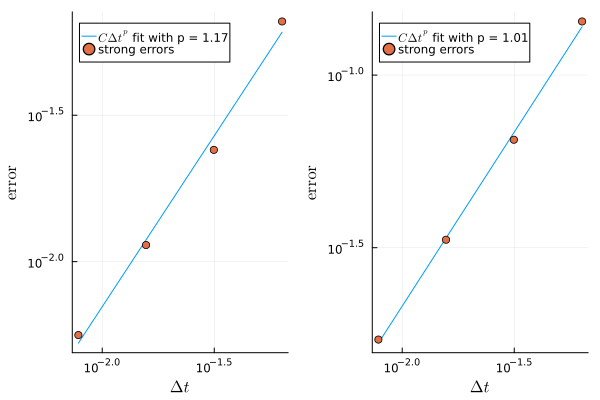
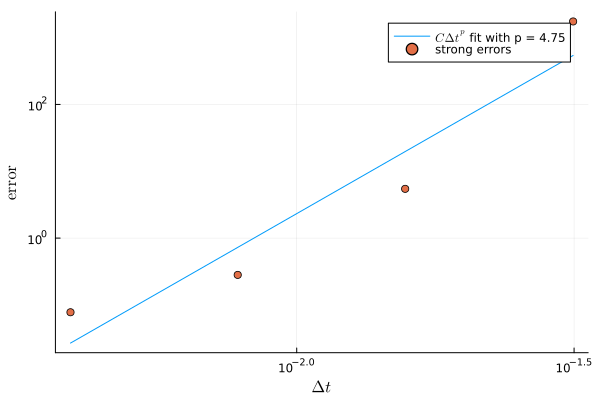
adjusting parameters

diff --git a/docs/src/examples/08-earthquake.md b/docs/src/examples/08-earthquake.md
@@ -4,6 +4,10 @@ EditURL = "https://github.com/rmsrosa/rode_conv_em/docs/literate/examples/08-ear
 
 # Seismic excitations of mechanical structures with the Kanai-Takimi model
 
+```@meta
+Draft = false
+```
+
 Now we consider a mechanical structure problem under ground-shaking excitations, based on the Kanai-Tajimi model.
 
 We consider a single-storey building, with its ground at position $M_t$ and its ceiling at position $M_t + X_t$. The random process $X_t$ refers to the motion relative to the ground. The ground motion $M_t$ affects the motion as an excitation force proportional to the ground acceleration $\ddot M_t$. The damping and elastic forces are in effect within the structure. In this framework, the equation of motion for the relative displacement $X_t$ of the ceiling of the single storey building takes the form
@@ -50,7 +54,6 @@ First we load the necessary packages
 using Plots
 using Random
 using LinearAlgebra
-using FFTW
 using Distributions
 using RODEConvergence
 ````
@@ -70,7 +73,7 @@ function f!(dx, t, x, y)
     ζ = 0.064
     ω = 15.56
     dx[1] = x[2]
-    dx[2] = - 2 * ζ * ω * x[2] - ω ^ 2 * x[1] + y[1] * y[2]
+    dx[2] = - 2 * ζ * ω * x[2] - ω ^ 2 * x[1] + y
     return dx
 end
 ````
@@ -148,8 +151,8 @@ end
 ````
 
 ````@example 08-earthquake
-ylaw = product_distribution(InverseGamma(4.0, tf), Uniform(2.0, 8.0), Uniform(2.0, 6.0), Uniform(4π, 16π))
-nr = 4
+ylaw = product_distribution(Exponential(tf/8), Uniform(0.1, 0.6), Uniform(4.0, 8.0), Uniform(4π, 16π))
+nr = 8
 g(t, r) = mapreduce(ri -> ddgm(t, ri[1], ri[2], ri[3], ri[4]), +,  eachcol(r))
 noise = TransportProcess(t0, tf, ylaw, g, nr)
 ````
@@ -191,9 +194,9 @@ plot!(60et)
 Now we are ready to check the order of convergence. We set the target resolution, the convergence test resolutions, the sample convergence resolutions, and the number of sample trajectories for the Monte-Carlo approximation of the strong error.
 
 ````@example 08-earthquake
-ntgt = 2^18
-ns = 2 .^ (6:9)
-m = 1 # 1_000
+ntgt = 2^20
+ns = 2 .^ (7:10)
+m = 500 # 1_000
 nothing # hide
 ````
 
@@ -267,7 +270,10 @@ The displacement of the building is tiny compared to the ground, in this simulat
 
 ````@example 08-earthquake
 plot(suite, ns=nothing)
-plot!(suite, xshow = false, yshow = prod, ns=nothing)
+````
+
+````@example 08-earthquake
+plot(suite, xshow = false, yshow = true, ns=nothing)
 ````
 
 We also draw an animation of the motion of the single-storey building in each case. First the model with the transport-modulated noise.
@@ -276,53 +282,19 @@ And now with the Hawkes-modulated noise.
 
 ````@example 08-earthquake
 dt = (tf - t0) / (ntgt - 1)
-ground = accumulate(+, accumulate(+, map(prod, eachrow(transportmodulated_suite.yt)))) * dt ^ 2
+mt = [mapreduce(ri -> gm(t, ri[1], ri[2], ri[3], ri[4]), +,  eachcol(noise.rv)) for t in range(t0, tf, length=length(suite.yt))]
 
 @time anim = @animate for i in 1:div(ntgt, 2^10):div(ntgt, 1)
-    ceiling = ground[i] + transportmodulated_suite.xt[i, 1]
+    ceiling = mt[i] + suite.xt[i, 1]
     heigth = 3.0
     halfwidth = 0.1
-    plot([ground[i] - halfwidth; ceiling - halfwidth; ceiling + halfwidth; ground[i] + halfwidth], [0.0; heigth; heigth; 0.0], xlim = (-0.2, 0.2), ylim=(0.0, 4.0), xlabel="\$\\mathrm{displacement}\$", ylabel="\$\\textrm{height}\$", fill=true, title="Building at time t = $(round((i * dt), digits=3))", legend=false)
+    plot([mt[i] - halfwidth; ceiling - halfwidth; ceiling + halfwidth; mt[i] + halfwidth], [0.0; heigth; heigth; 0.0], xlim = (-0.2, 0.2), ylim=(0.0, 4.0), xlabel="\$\\mathrm{displacement}\$", ylabel="\$\\textrm{height}\$", fill=true, title="Building at time t = $(round((i * dt), digits=3))", legend=false)
 end
 nothing # hide
 ````
 
 ````@example 08-earthquake
 gif(anim, fps = 30) # hide
-````
-
-Now just the relative motion
-
-````@example 08-earthquake
-@time anim = @animate for i in 1:div(ntgt, 2^12):div(ntgt, 2^4)
-    suite = transportmodulated_suite
-    ground = 0.0
-    ceiling = ground + suite.xt[i, 1]
-    heigth = 0.02
-    halfwidth = 0.001
-    plot([ground - halfwidth; ceiling - halfwidth; ceiling + halfwidth; ground + halfwidth], [0.0; heigth; heigth; 0.0], xlim = (-0.004, 0.004), ylim=(0.0, 0.1), xlabel="\$\\mathrm{displacement}\$", ylabel="\$\\textrm{height}\$", fill=true, title="Building at time t = $(round((i * dt), digits=3))", legend=false)
-end
-
-nothing # hide
-````
-
-````@example 08-earthquake
-gif(anim, fps = 30) # hide
-````
-
-````@example 08-earthquake
-tt = range(t0, tf, length=length(yt))
-rand!(rng, noise, yt)
-at = yt[:, 2] .* sin.(4π * tt)
-plot(at)
-bt = map(prod, eachrow(yt))
-nt = at .+ 0.1 .* yt[:, 1]
-plot(nt)
-
-dgrd = accumulate(+, nt) * dt
-grd = accumulate(+, dgrd) * dt
-
-plot(dgrd)
 ````
 
 ---
